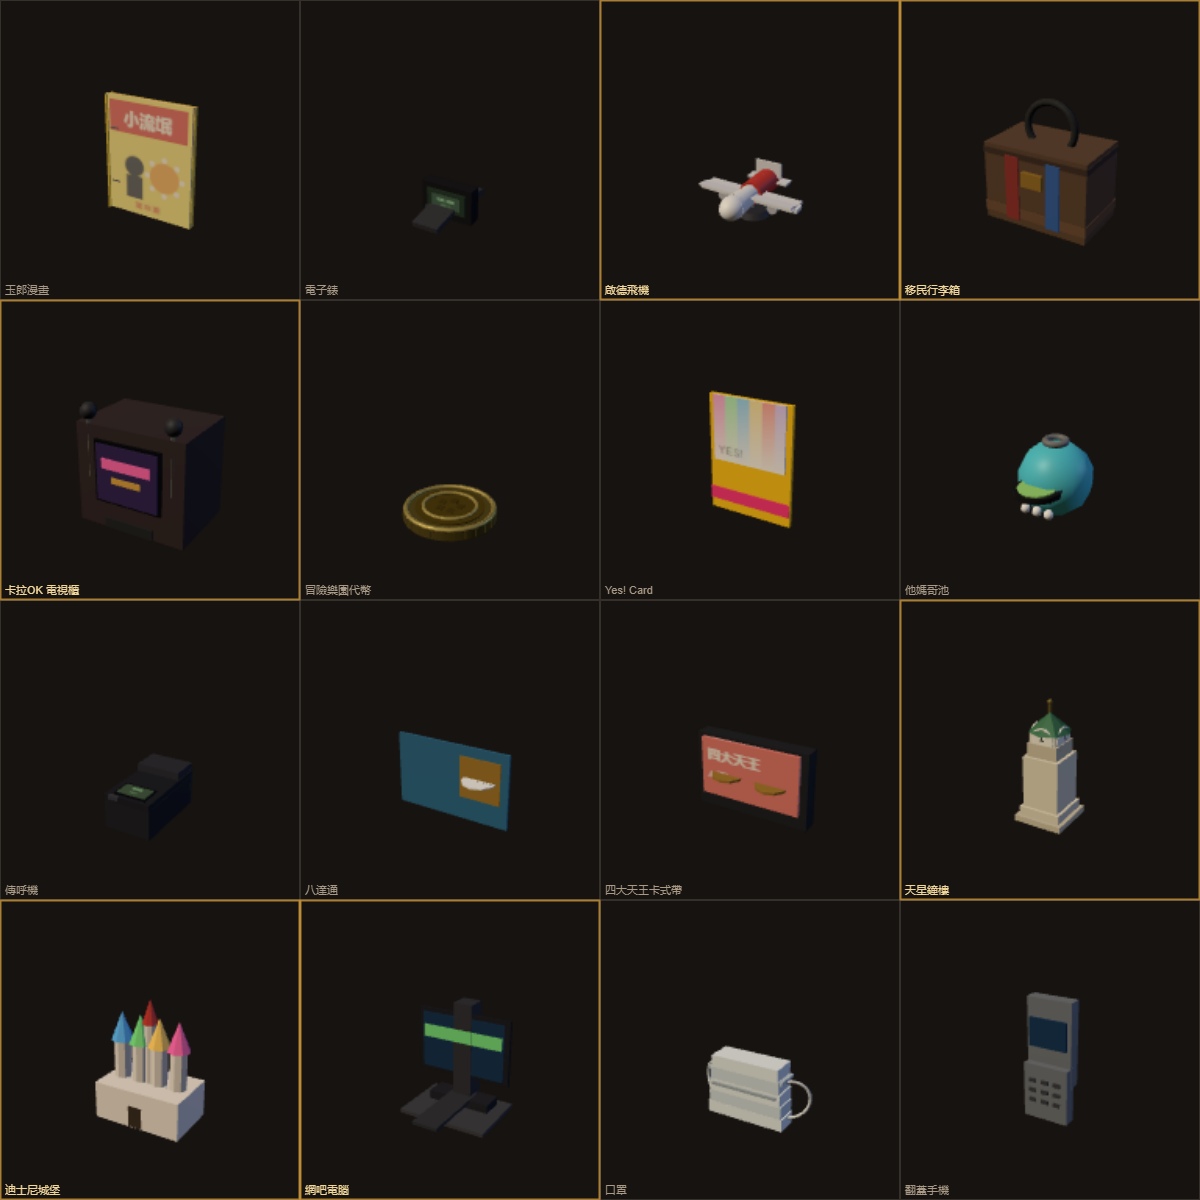
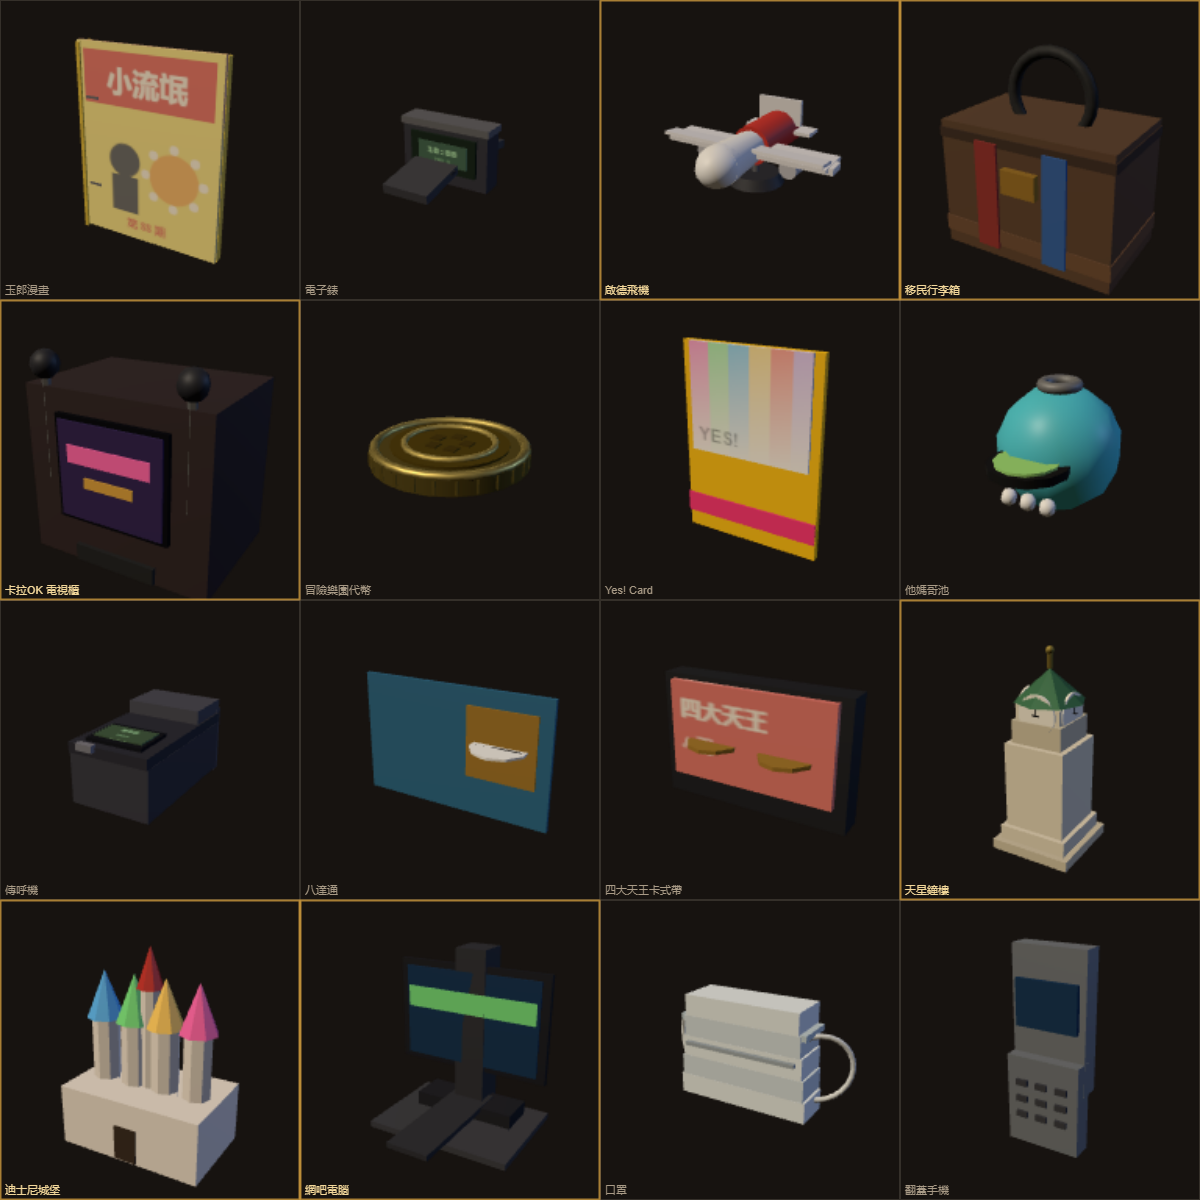
frame thumbnails by height, lift the black props off the black backdrop
Thumbnails dropped every model's base on the floor and aimed the camera at a
fixed 85 mm. That is right for a cabinet and wrong for a watch: flat objects
sat at the bottom edge of their cell at a third of the size they could be.
Models are now centred on all three axes and the camera sits closer.

The beeper and the 電子錶 were charcoal on a near-black panel, so neither had a
silhouette. Both get the lighter faceplate the real objects had, and the watch
gets a chrome bezel to hold the key light.

diff --git a/render.js b/render.js
@@ -456,8 +456,9 @@
      * upright bars either side of the case, which read as a buckle, not a
      * wrist. Lay the strap flat and let the module sit proud of it.
      */
-    var case_ = M(0x1e1e22, 0.42, 0.35), strap = M(0x2a2a30, 0.72), glass = M(0x2a3a2e, 0.16);
+    var case_ = M(0x4a4a54, 0.36, 0.45), strap = M(0x39393f, 0.70), glass = M(0x1e2a20, 0.16);
     g.add(box(0.052, 0.034, 0.013, case_, 0, 0.017, 0));              // module body
+    g.add(box(0.054, 0.004, 0.015, M(0xb8b8c0, 0.28, 0.75), 0, 0.0335, 0)); // chrome bezel
     g.add(box(0.040, 0.021, 0.003, glass, 0, 0.018, 0.0068));         // window
     g.add(box(0.030, 0.013, 0.0015, plateTex(64, 32, function (c, w, h) {
       c.fillStyle = '#0e2014'; c.fillRect(0, 0, w, h);
@@ -590,19 +591,24 @@
     var g = new THREE.Group();
     // The beeper is a clip-on box with a screen on one end, not a remote
     // control: the clip is the silhouette that identifies it.
-    g.add(box(0.048, 0.030, 0.084, M(0x1e1e24, 0.5), 0, 0.015, 0));           // body
-    g.add(box(0.048, 0.006, 0.086, M(0x14141a, 0.6), 0, 0.033, 0));           // top shell
-    g.add(box(0.034, 0.004, 0.024, M(0x0d0d12, 0.3), 0, 0.0345, 0.026));      // screen
+    /* A near-black beeper against a near-black backdrop has no silhouette.
+     * The 1990s case was charcoal with a lighter faceplate, and that two-tone
+     * edge is what makes it read as an object rather than a smudge.
+     */
+    g.add(box(0.048, 0.030, 0.084, M(0x3c3c46, 0.44), 0, 0.015, 0));          // body
+    g.add(box(0.042, 0.004, 0.070, M(0x585864, 0.40, 0.15), 0, 0.0305, 0.002)); // faceplate
+    g.add(box(0.048, 0.006, 0.086, M(0x2a2a34, 0.55), 0, 0.033, 0));          // top shell
+    g.add(box(0.034, 0.005, 0.026, M(0x16161c, 0.35), 0, 0.0355, 0.024));     // bezel
     g.add(box(0.030, 0.002, 0.018, plateTex(64, 40, function (c, w, h) {
       c.fillStyle = '#0d1a0d'; c.fillRect(0, 0, w, h);
       c.fillStyle = '#6fdc7a'; c.font = 'bold 13px monospace'; c.textAlign = 'center';
       c.fillText('998', w / 2, 16);
       c.font = '7px monospace'; c.fillStyle = '#4a9a52';
       c.fillText('CALL', w / 2, 30);
-    }), 0, 0.0363, 0.026));                                                  // LCD
-    g.add(box(0.010, 0.004, 0.004, M(0x3a3a44, 0.5), -0.012, 0.0355, 0.044)); // button
-    g.add(box(0.046, 0.040, 0.006, M(0x2a2a32, 0.55), 0, 0.018, -0.044));      // clip back
-    g.add(box(0.046, 0.008, 0.030, M(0x2a2a32, 0.55), 0, 0.040, -0.030));      // clip arm
+    }), 0, 0.0378, 0.024));                                                  // LCD
+    g.add(box(0.010, 0.004, 0.004, M(0x8a8a96, 0.45, 0.20), -0.012, 0.0355, 0.044)); // button
+    g.add(box(0.046, 0.040, 0.006, M(0x4a4a56, 0.50), 0, 0.018, -0.044));      // clip back
+    g.add(box(0.046, 0.008, 0.030, M(0x4a4a56, 0.50), 0, 0.040, -0.030));      // clip arm
     return g;
   };
   B.octopus = function () {
@@ -2044,6 +2050,10 @@ R.room = function () { return roomGroup; };
   // One shared renderer for every thumbnail. Creating a renderer per prop
   // burns a WebGL context each time and Chrome kills the page at ~16.
   var thumbRenderer = null, thumbScene, thumbCam, thumbLight, thumbCache = {};
+  var THUMB_DIST = 0.38;      // camera distance; 0.232 of frame height is visible
+  var THUMB_MID = 0.060;      // models are centred here vertically
+  var THUMB_SPAN = 0.150;     // longest dimension after normalising
+
   R.thumb = function (id) {
     if (thumbCache[id]) return thumbCache[id];
     if (!thumbRenderer) {
@@ -2052,8 +2062,13 @@ R.room = function () { return roomGroup; };
       thumbRenderer.outputColorSpace = THREE.SRGBColorSpace;
       thumbScene = new THREE.Scene();
       thumbCam = new THREE.PerspectiveCamera(34, 1, 0.05, 8);
-      thumbCam.position.set(0.26, 0.30, 0.44);
-      thumbCam.lookAt(0, 0.085, 0);
+      /* Distance and target are tied to THUMB_MID / THUMB_SPAN below. The old
+       * fixed aim at y=0.085 made every flat prop (watch, pager, card) sit
+       * below the centre of its own cell, so it read as a small smear.
+       */
+      var dir = new THREE.Vector3(0.4387, 0.5062, 0.7425);
+      thumbCam.position.copy(dir.multiplyScalar(THUMB_DIST));
+      thumbCam.lookAt(0, THUMB_MID, 0);
       thumbLight = new THREE.DirectionalLight(0xfff2dd, 2.4);
       thumbLight.position.set(-0.4, 0.9, 0.7);
       thumbScene.add(thumbLight);
@@ -2084,13 +2099,16 @@ R.room = function () { return roomGroup; };
       var size = new THREE.Vector3(), ctr = new THREE.Vector3();
       bb.getSize(size); bb.getCenter(ctr);
       var span = Math.max(size.x, size.y, size.z * 1.3, 0.001);
-      g.scale.setScalar(0.145 / span);
-      // re-measure after scaling so the object is centred, not its origin
+      g.scale.setScalar(THUMB_SPAN / span);
+      /* Re-measure after scaling and centre all three axes. Dropping the base
+       * on y=0 was only right for objects about as tall as they are wide; a
+       * 30 mm watch ended up at the bottom edge of the cell.
+       */
       bb.setFromObject(g);
       bb.getCenter(ctr);
       g.position.x -= ctr.x;
       g.position.z -= ctr.z;
-      g.position.y -= bb.min.y;
+      g.position.y += THUMB_MID - ctr.y;
     }
     thumbScene.add(g);
     thumbRenderer.render(thumbScene, thumbCam);
